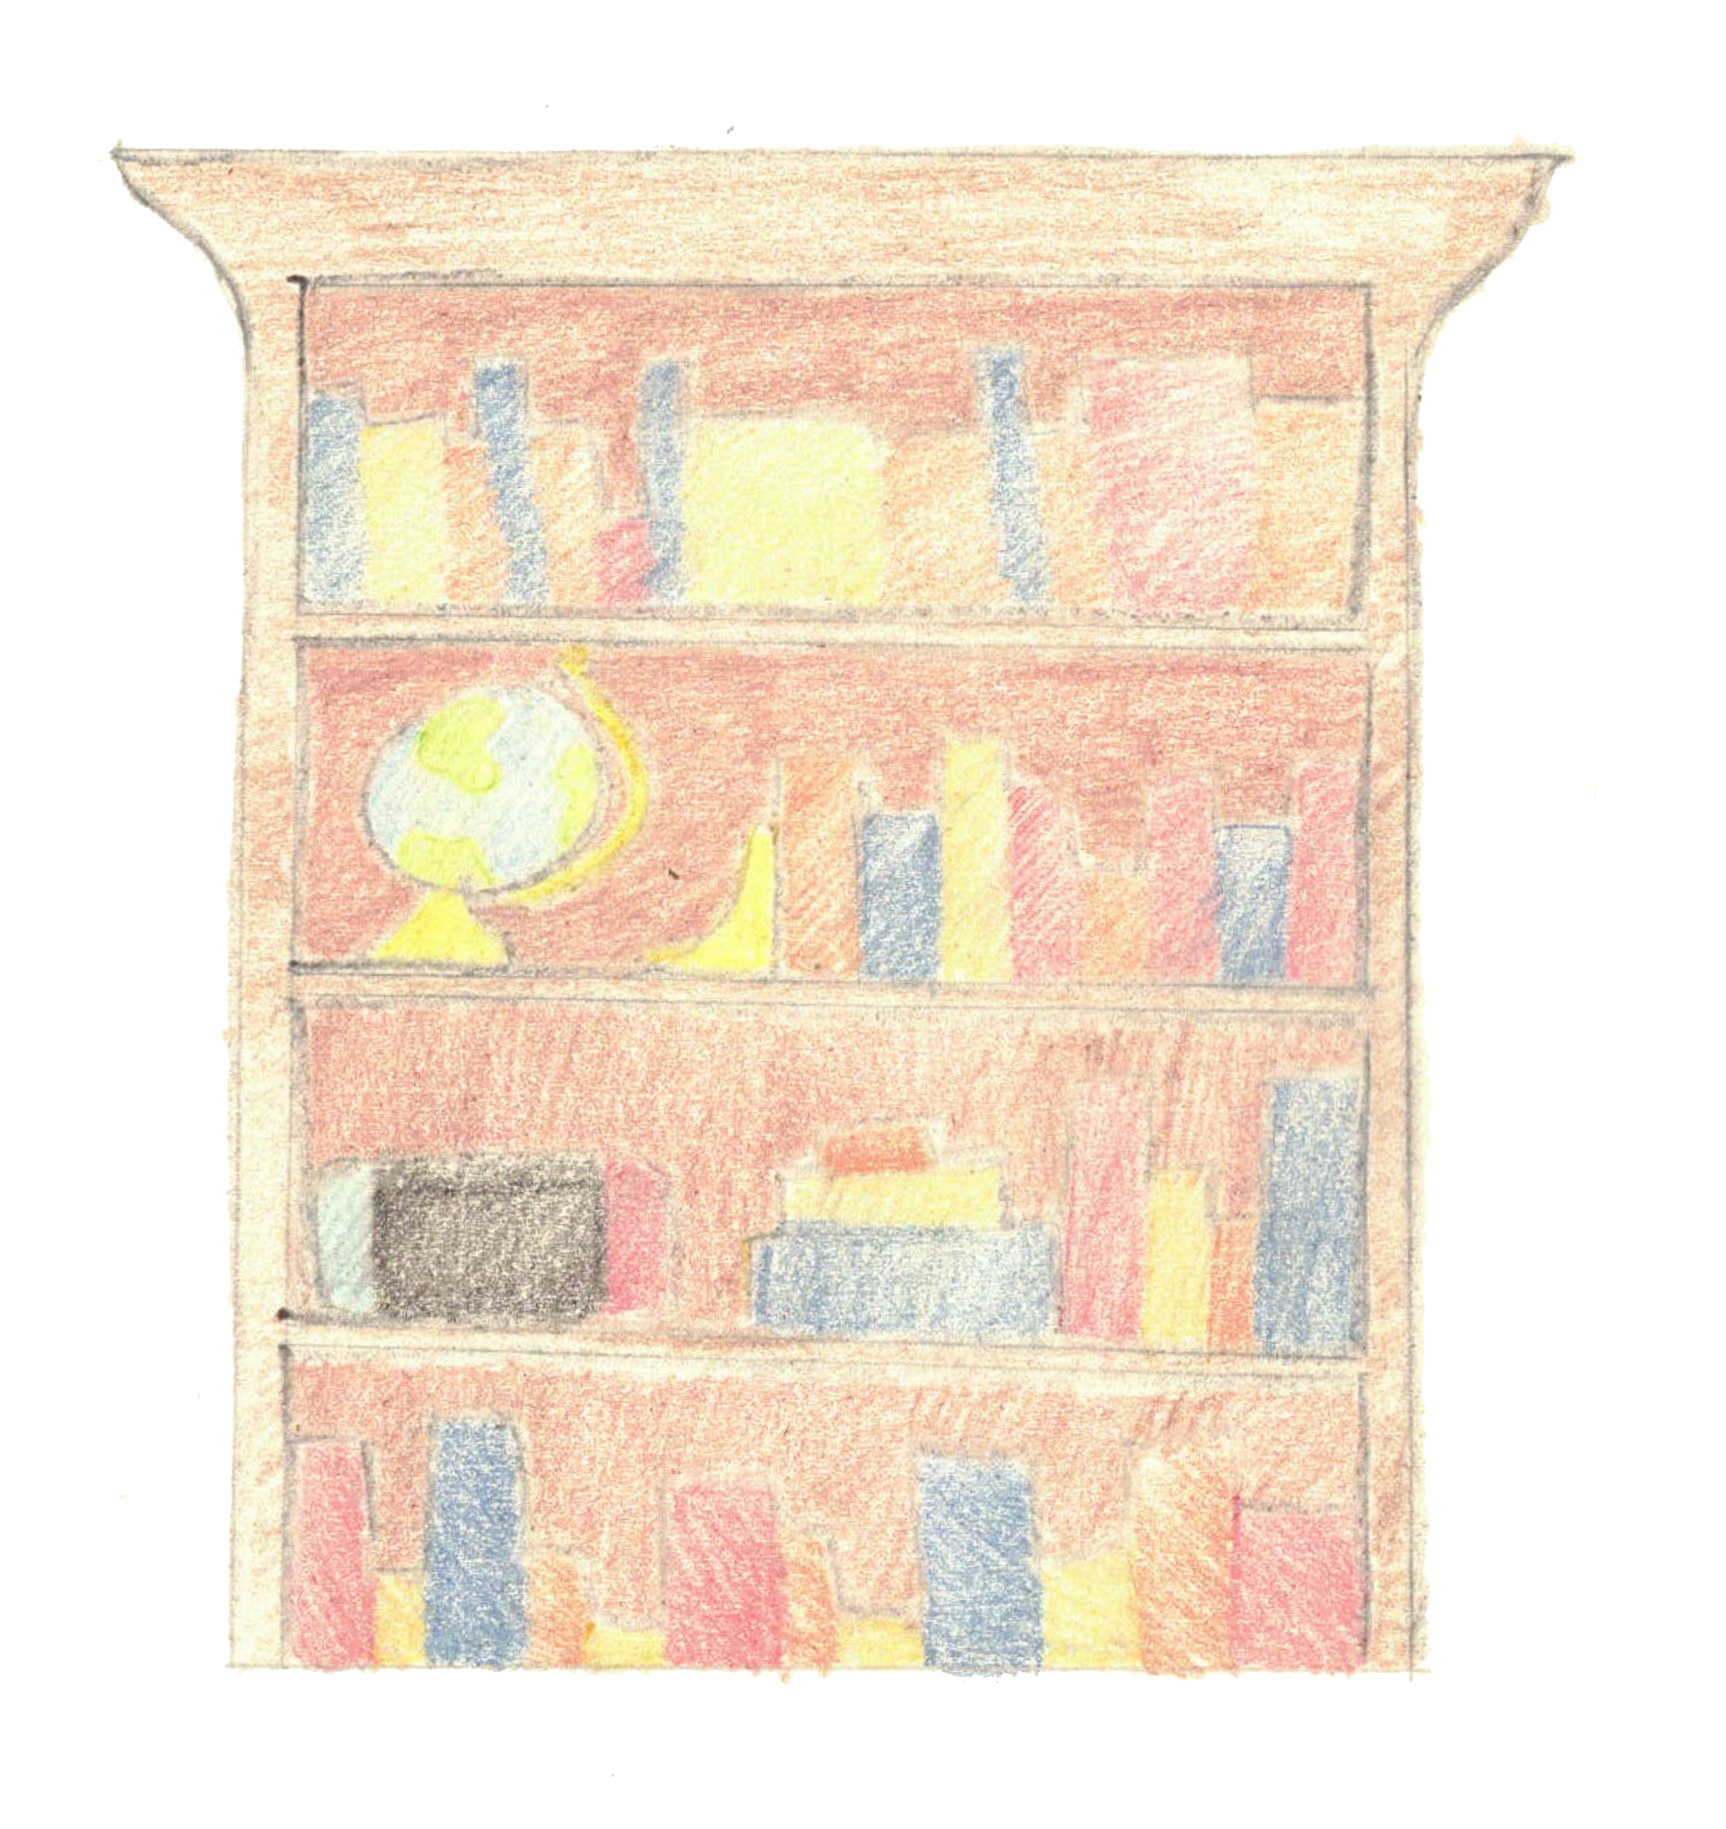
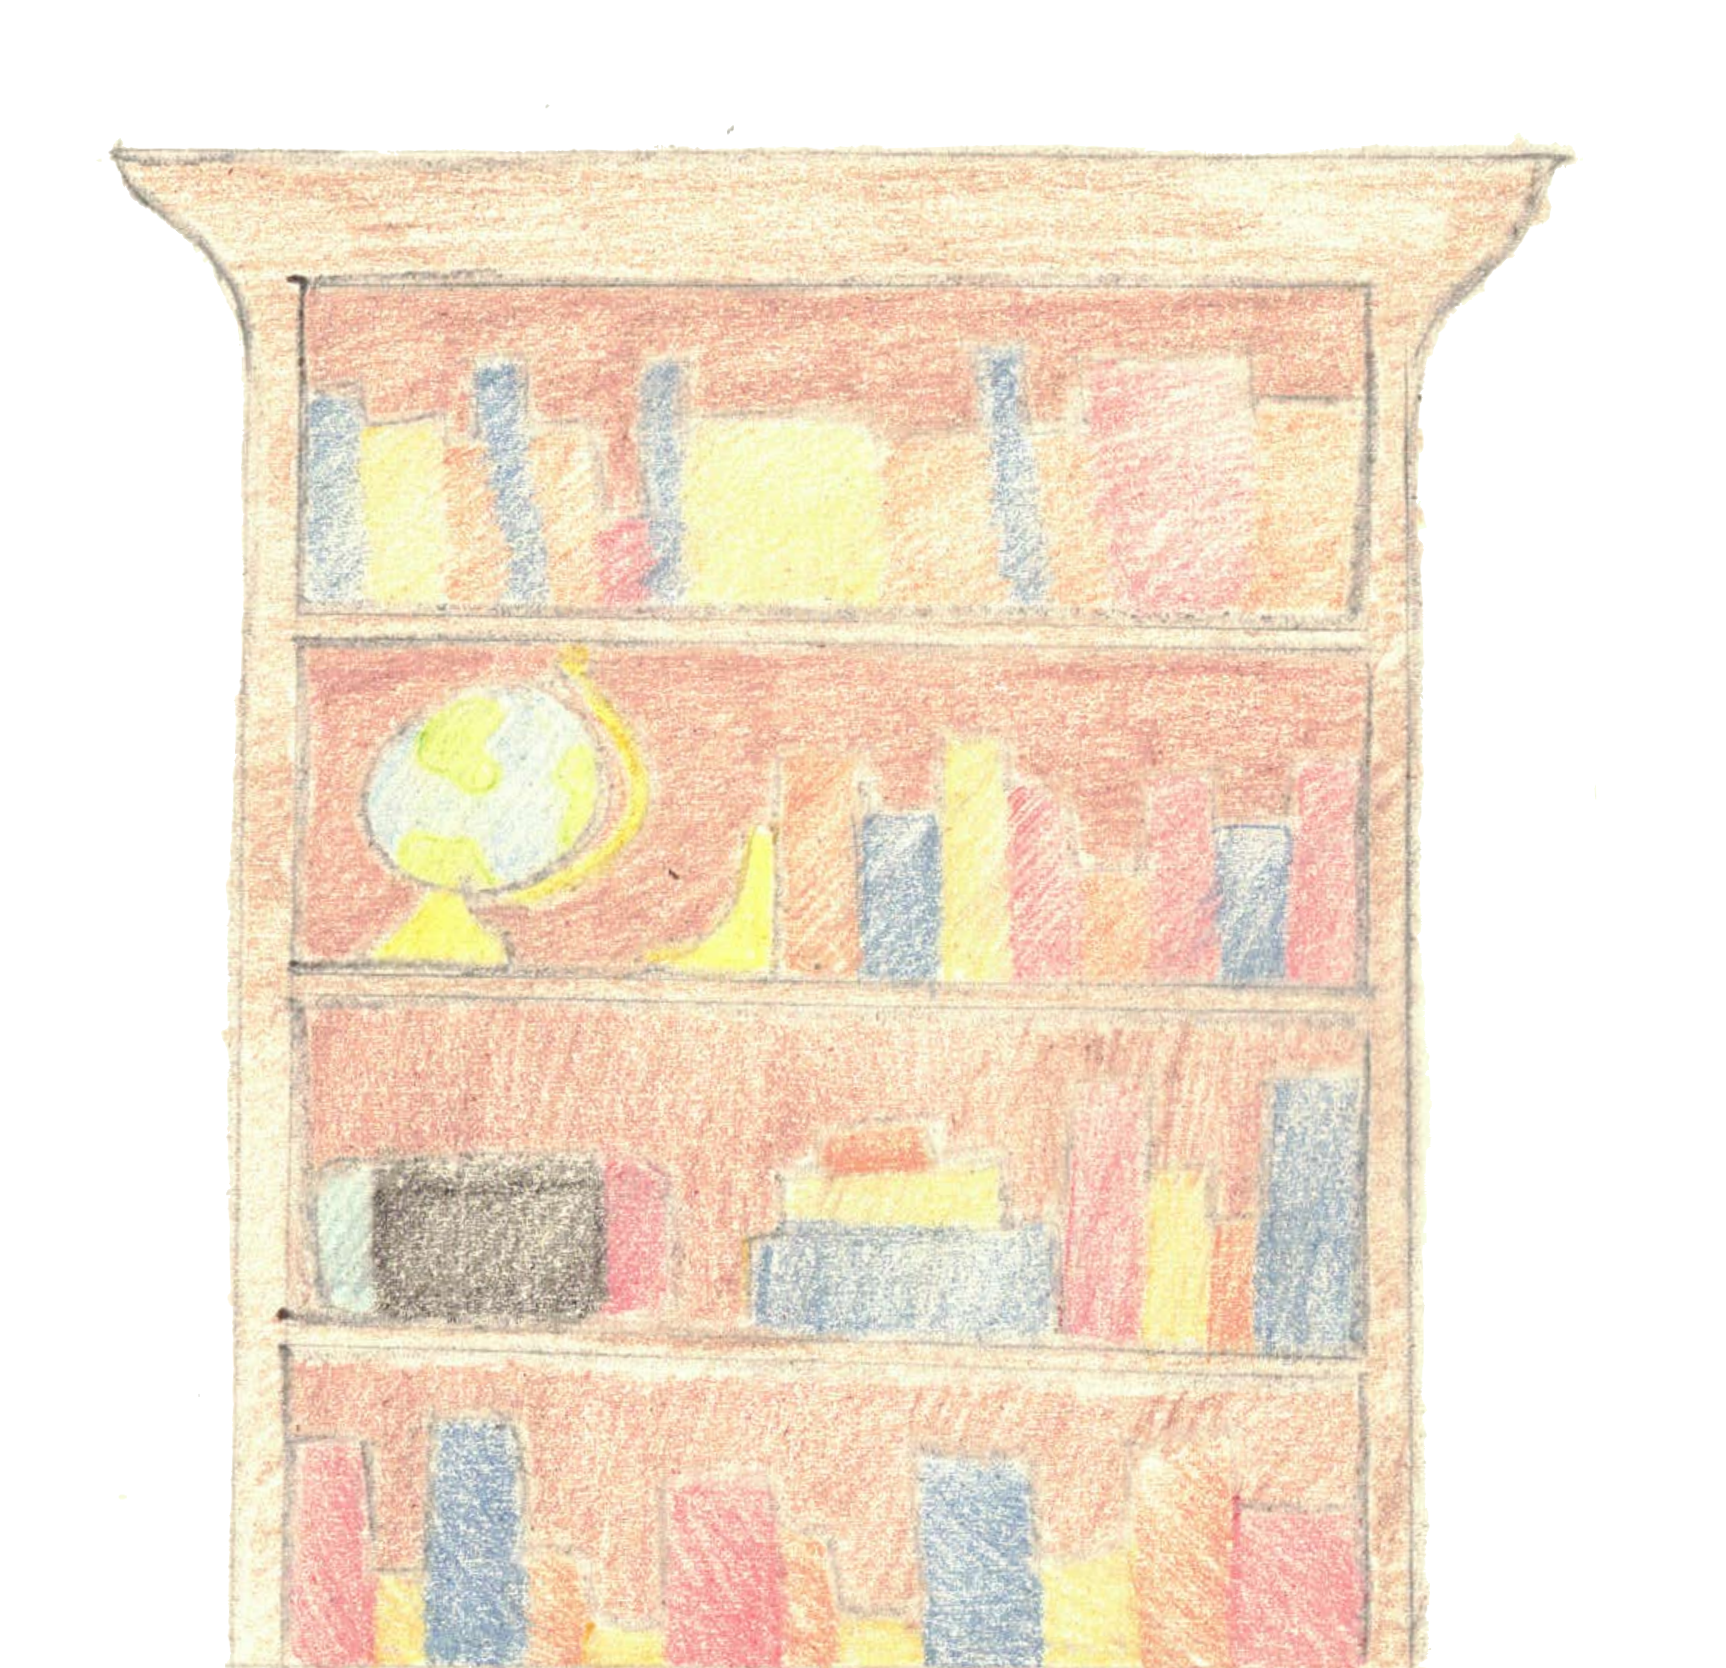
Finished basic HTML & CSS

diff --git a/styles.css b/styles.css
@@ -60,7 +60,7 @@ table {
 
 .Wallace {
 	margin: auto;
-	padding-top: 2%;
+	padding-top: 16%;
 }
 
 .dogbody {
@@ -77,6 +77,32 @@ table {
 	top: -245px;
 	left: 180px;
 	z-index: -1;
+}
+
+.dogbody::before {
+	content: url(/Art/Crayons\ Decor\ Lamp\ Day.png);
+	display: block;
+	transform: scale(.4);
+	position: absolute;
+	top: -22%;
+	right: 50%;
+	z-index: -2;
+}
+
+.bookshelf {
+	height: 650px;
+	z-index: -3;
+	position: absolute;
+	left: 61%;
+	top: 6%;
+}
+
+.window {
+	height: 400px;
+	position: absolute;
+	top: 20%;
+	right: 78%;
+	z-index: -4;
 }
 
 .table {

diff --git a/index.html b/index.html
@@ -17,7 +17,9 @@
                 </div>
             </div>
 
-            
+            <img src="/Art/Crayons Decor Bookshelf.png" alt="Crayon drawing of a bookshelf" class="bookshelf">
+
+            <img src="/Art/Crayons Decor Window Day.png" alt="Crayon drawing of a window with orange curtains, showing green fields" class="window">
         </div>
 
         <div class="table">
